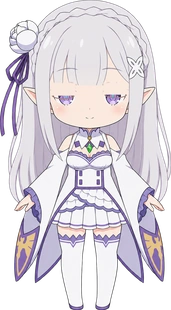
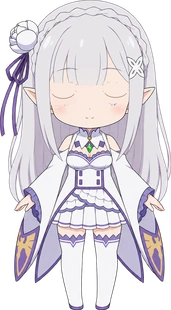
fix(pet): 半闭帧改为整眼皮肤化（不再露出原眼睛），掩膜外扩到 6px
- 半闭帧之前只覆盖眼区上半，下半露出原眼睛的白/线稿，导致颜色对不上
- 现在半闭帧 = 整眼皮肤化 + 位置更高的细弧线(3px,176,136,126)；全闭帧弧线 5px(150,112,104)
- 掩膜 MaxFilter 9→13（外扩 6px），把眼角/上下边缘线稿一起覆盖
- 半闭/全闭 差异仅 572px（都在弧线位置），说明两帧除眼睑线外完全一致
- v=20261030h / codeVer 20261030.8

Changed region(s): [[0.2924, 0.2903, 0.4386, 0.3484], [0.614, 0.2903, 0.7602, 0.3484]]

diff --git a/source/js/pet.js b/source/js/pet.js
@@ -33,8 +33,8 @@
   var bubbleTimer = null, lastPath = null, raf = 0;
 
   /* ---------- 伪 2.5D：整卡透视倾斜 ---------- */
-  var ASSET_V = '?v=20261030g';
-  var PET_VER = '20261030.7';   // 内容指纹：改素材必须同步改这里，否则 CDN 7 天缓存不会更新
+  var ASSET_V = '?v=20261030h';
+  var PET_VER = '20261030.8';   // 内容指纹：改素材必须同步改这里，否则 CDN 7 天缓存不会更新
   var SPRITE_HALF_1X = '/images/pet/front_half_310.webp' + ASSET_V;
   var SPRITE_HALF_2X = '/images/pet/front_half_620.webp' + ASSET_V;
   var SPRITE_HALF_3X = '/images/pet/front_half_930.webp' + ASSET_V;
